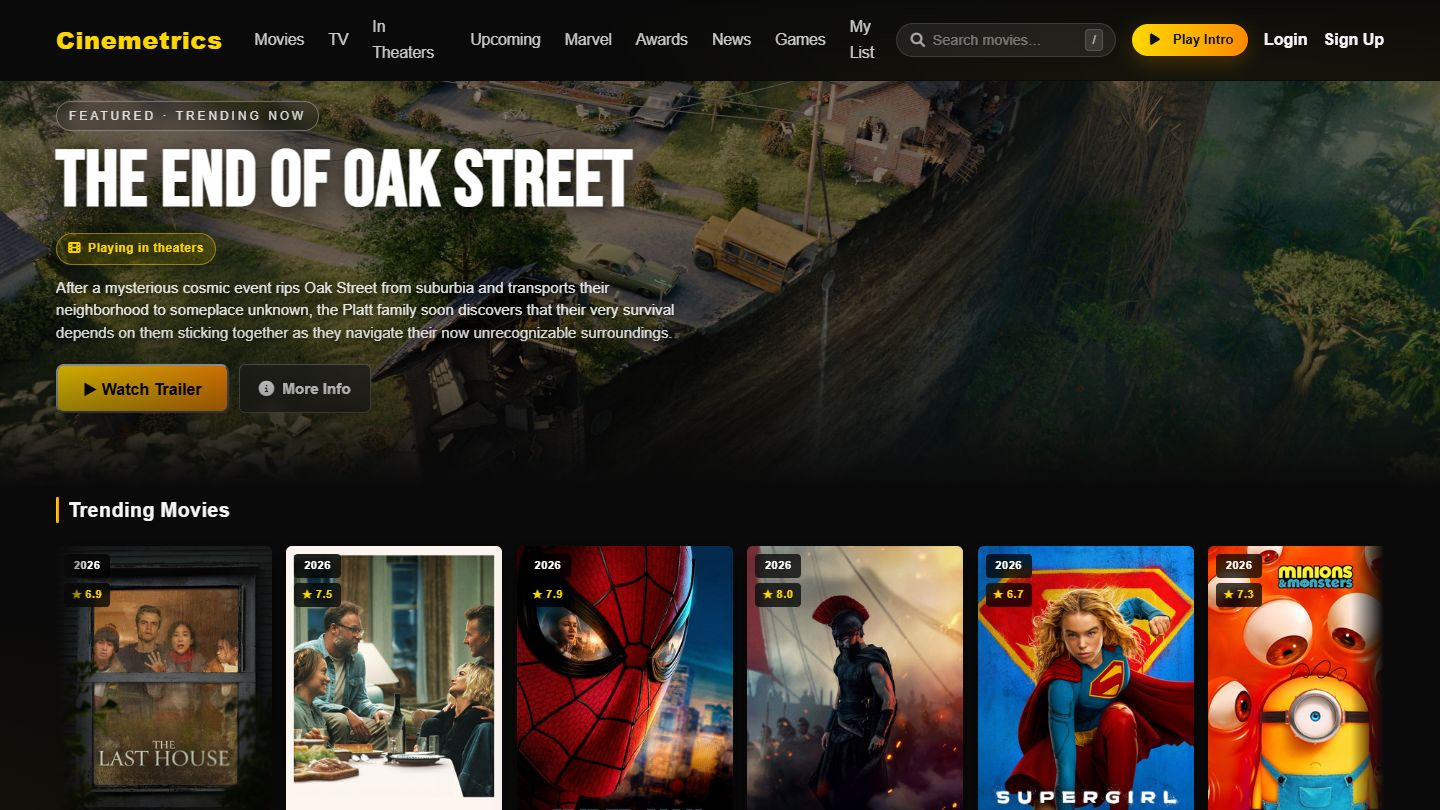
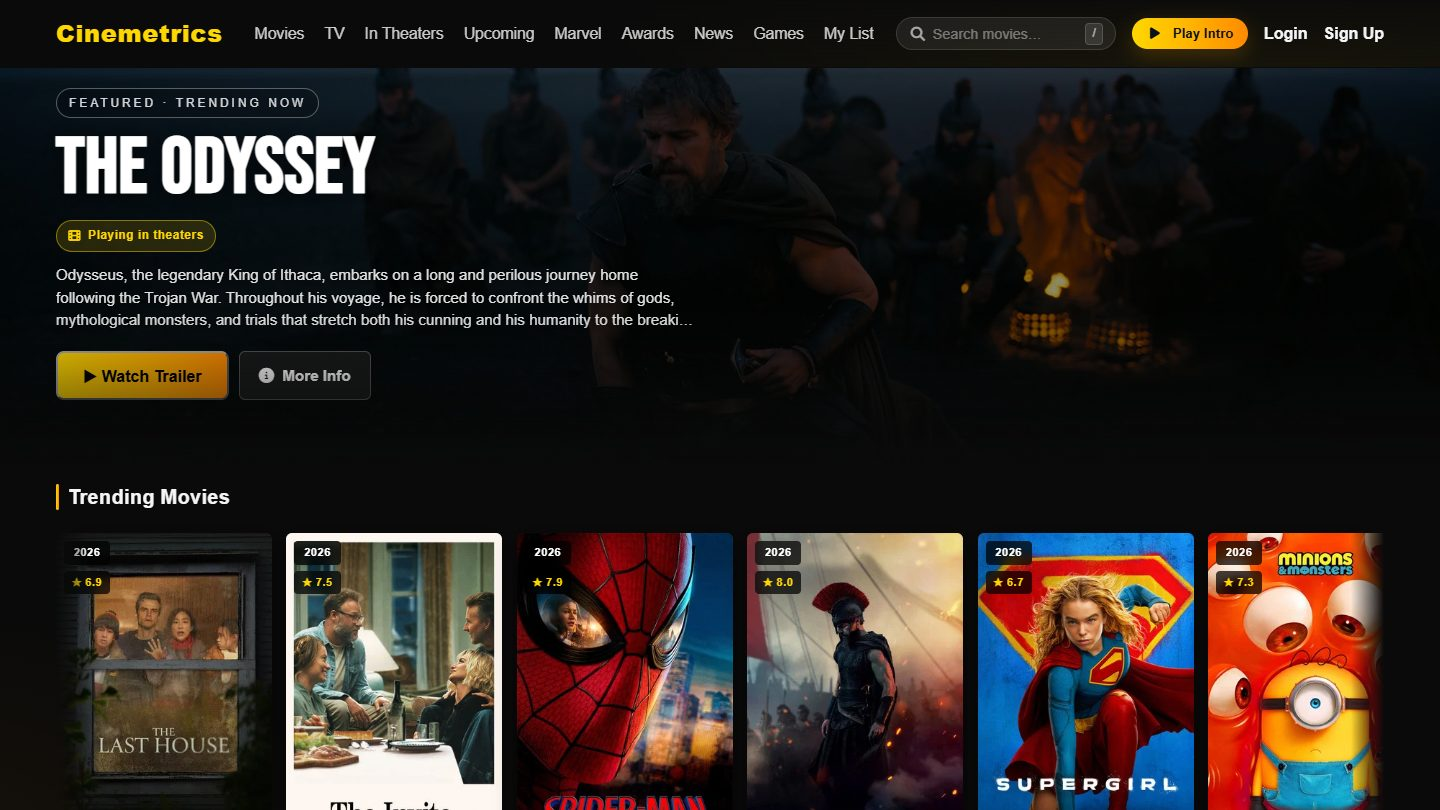
security: remove live TMDB credentials and personal data from the repo
Assets/docs/TMDB_API_GUIDE.md contained the real TMDB API key and Bearer
token, not placeholders. Both were verified against the working .env and
match, and the key still returns 200 from TMDB. It had been public since
cd116a5. The file also documented a `utils/tmdbApi.js` that no longer
exists and its text was duplicated line-for-line, so it is deleted rather
than redacted; setup lives in the README now.

server/scripts/send_test_email.js hardcoded four personal inboxes.
Recipients now come from argv or TEST_EMAIL_RECIPIENTS, and the script
exits with usage if neither is set.

Assets/docs/project-planning.md linked a Mural board with a personal
share/sender token in the query string. Link removed.

Also swaps the README hero screenshot to a frame that shows the fixed
single-line nav.

NOTE: deleting these does not un-leak them — the key and token remain in
git history and in anyone's existing clone. They must be rotated at
themoviedb.org/settings/api.

diff --git a/server/scripts/send_test_email.js b/server/scripts/send_test_email.js
@@ -6,17 +6,25 @@ dotenv.config({ path: path.join(process.cwd(), ".env") });
 
 import { sendEmail } from "../utils/sendEmail.js";
 
-// Default recipients (match your Resend audience screenshot)
-const defaultRecipients = [
-  "jamesmnguyen704@yahoo.com",
-  "jamesmnguyen704@gmail.com",
-  "nguyenjames704@yahoo.com",
-  "jamesmnguyen704@outlook.com"
-];
-
-// Allow passing recipients as command-line args: `node send_test_email.js addr1 addr2`
+// Recipients come from the command line, or TEST_EMAIL_RECIPIENTS in .env as a
+// comma-separated list. Addresses are deliberately not hardcoded here — this
+// repo is public and committed inboxes get scraped.
+//
+//   node server/scripts/send_test_email.js you@example.com
 const cliRecipients = process.argv.slice(2).filter(Boolean);
-const recipients = cliRecipients.length ? cliRecipients : defaultRecipients;
+const envRecipients = (process.env.TEST_EMAIL_RECIPIENTS || "")
+  .split(",")
+  .map(s => s.trim())
+  .filter(Boolean);
+const recipients = cliRecipients.length ? cliRecipients : envRecipients;
+
+if (!recipients.length) {
+  console.error(
+    "No recipients. Pass them as arguments or set TEST_EMAIL_RECIPIENTS in .env:\n" +
+      "  node server/scripts/send_test_email.js you@example.com"
+  );
+  process.exit(1);
+}
 
 (async () => {
   for (const to of recipients) {

diff --git a/Assets/docs/project-planning.md b/Assets/docs/project-planning.md
@@ -72,7 +72,12 @@ To create a **centralized movie hub for 2025** that merges release information, 
 ## Mural Project Resources
 All project planning materials, including the **User Story Map**, **Wireframes**, **User Flow Diagram**, and **SWOT Analysis**, are available in the Mural board linked below:
 
-👉 [View All Project Resources on Mural]https://app.mural.co/t/mycapstone1793/m/mycapstone1793/1759447593955/f8f12cb23f84c834f0389b641a1150faf6075db9?sender=u315d2b17214858b1bf858824
+👉 View All Project Resources on Mural — board link available on request.
+
+<!-- The previous public link embedded a personal share/sender token, so it was
+     removed. Ask the repo owner for access rather than re-pasting a tokenized
+     Mural URL here. -->
+
 ---
 
 ## Research the Following
